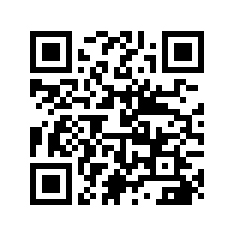
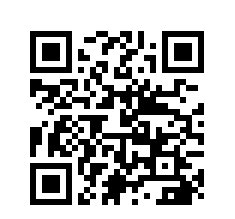
幸运大抽奖

diff --git a/index.html b/index.html
@@ -109,7 +109,7 @@
         
         #mask dl dt {
             width: 235px;
-            height: 218px;
+            height: 219px;
         }
         
         #mask dl dd {
@@ -162,7 +162,7 @@
     </script>
     <div id="mask">
         <dl>
-            <dt><img src="./img/eweima.png"/></dt>
+            <dt><img src="./img/ewm.jpg"/></dt>
             <dd>扫一扫手机打开浏览效果更好</dd>
         </dl>
     </div>
